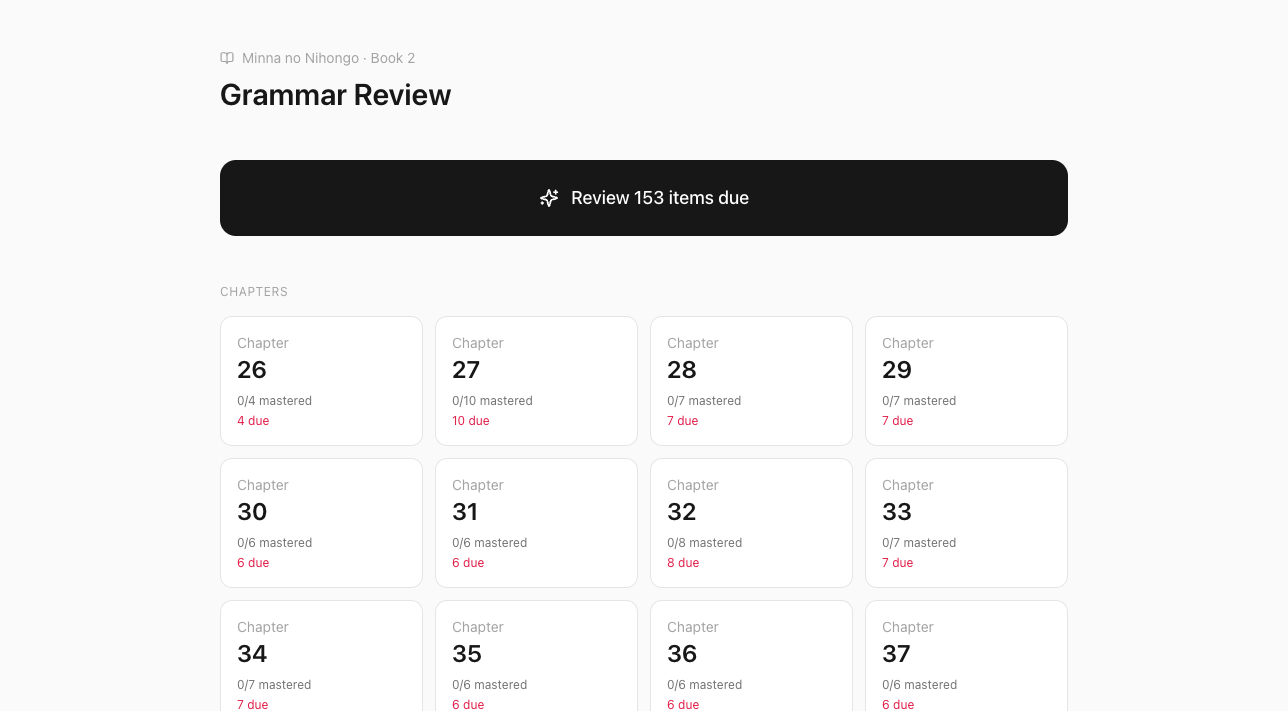
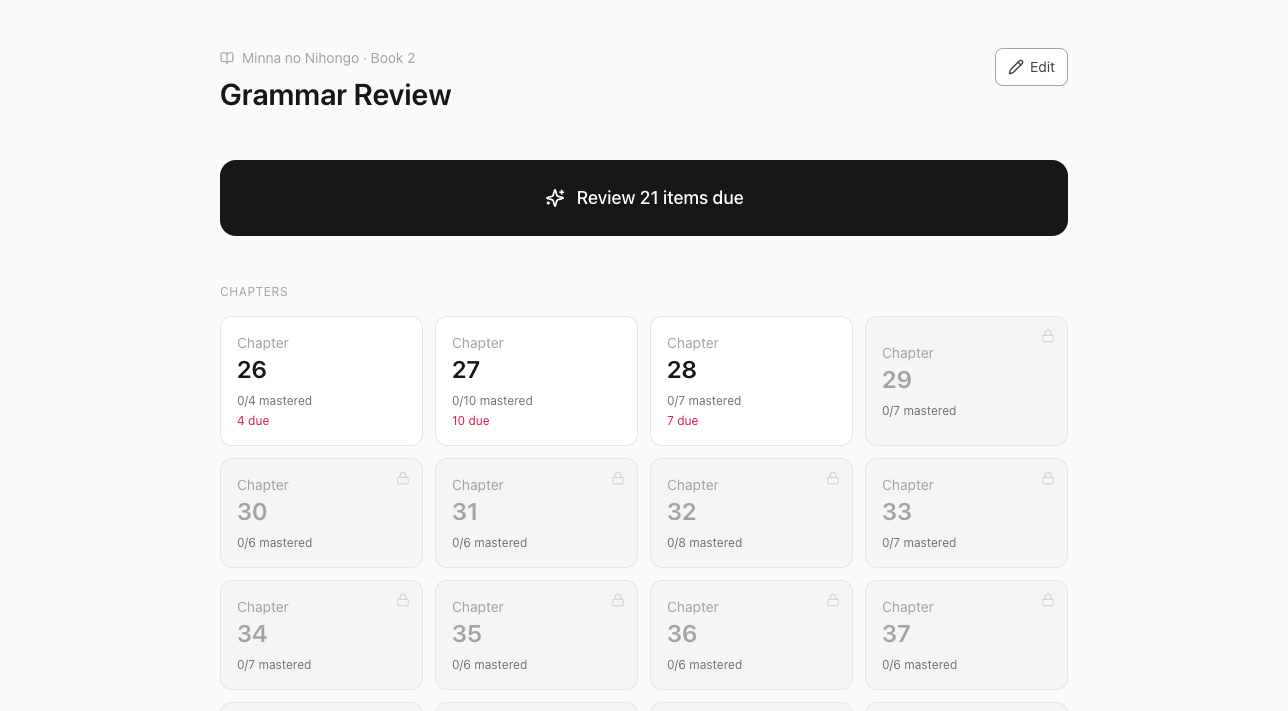
Add chapter activation: review only what you've studied
- New active-chapters store keyed in localStorage. Only items in active
  chapters appear in the due queue and contribute to the dashboard CTA.
- Dashboard gets an Edit toggle: cards become checkboxes, banner shows
  Select all / Clear / N of 25 active. Inactive chapters render dimmed
  with a lock icon and don't accept clicks outside edit mode.
- First-time users (no active chapters) auto-enter edit mode and see a
  dashed "Select chapters you've studied" CTA instead of Review.
- README updated with the new edit-mode screenshot.

diff --git a/src/components/Dashboard.tsx b/src/components/Dashboard.tsx
@@ -1,4 +1,5 @@
-import { BookOpen, Sparkles } from "lucide-react";
+import { useState } from "react";
+import { BookOpen, Check, Lock, Pencil, Sparkles } from "lucide-react";
 import { grammarData } from "../data/grammarData";
 import { useSrs } from "../srs/useSrs";
 
@@ -10,27 +11,91 @@ interface Props {
 const ALL_CHAPTERS = Array.from({ length: 25 }, (_, i) => 26 + i);
 
 export function Dashboard({ onStartReview, onOpenChapter }: Props) {
-  const { dueItems, chapterStats } = useSrs();
+  const {
+    dueItems,
+    chapterStats,
+    activeChapters,
+    isChapterActive,
+    toggleChapterActive,
+    setAllChaptersActive,
+  } = useSrs();
+  const [editing, setEditing] = useState(activeChapters.size === 0);
   const due = dueItems().length;
+  const activeCount = activeChapters.size;
+
+  const handleCardClick = (ch: number, empty: boolean) => {
+    if (empty) return;
+    if (editing) toggleChapterActive(ch);
+    else if (isChapterActive(ch)) onOpenChapter(ch);
+  };
 
   return (
     <div className="max-w-4xl mx-auto px-6 py-12">
-      <header className="mb-12">
-        <div className="flex items-center gap-2 text-neutral-400 text-sm mb-2">
-          <BookOpen size={14} />
-          <span>Minna no Nihongo · Book 2</span>
+      <header className="mb-12 flex items-start justify-between gap-4">
+        <div>
+          <div className="flex items-center gap-2 text-neutral-400 text-sm mb-2">
+            <BookOpen size={14} />
+            <span>Minna no Nihongo · Book 2</span>
+          </div>
+          <h1 className="text-3xl font-semibold text-neutral-900">Grammar Review</h1>
         </div>
-        <h1 className="text-3xl font-semibold text-neutral-900">Grammar Review</h1>
+        <button
+          onClick={() => setEditing((v) => !v)}
+          className={`flex items-center gap-1.5 text-sm px-3 py-2 rounded-lg border transition-colors ${
+            editing
+              ? "bg-neutral-900 text-white border-neutral-900"
+              : "bg-white text-neutral-700 border-neutral-200 hover:border-neutral-400"
+          }`}
+        >
+          {editing ? <Check size={16} /> : <Pencil size={16} />}
+          {editing ? "Done" : "Edit"}
+        </button>
       </header>
 
-      <button
-        onClick={onStartReview}
-        disabled={due === 0}
-        className="w-full mb-12 py-6 rounded-2xl bg-neutral-900 text-white text-lg font-medium hover:bg-neutral-800 transition-colors disabled:bg-neutral-200 disabled:text-neutral-400 disabled:cursor-not-allowed flex items-center justify-center gap-3"
-      >
-        <Sparkles size={20} />
-        {due > 0 ? `Review ${due} item${due > 1 ? "s" : ""} due` : "Nothing due — come back later"}
-      </button>
+      {editing ? (
+        <div className="mb-12 p-5 rounded-2xl border border-neutral-200 bg-white">
+          <div className="text-sm text-neutral-700 mb-3">
+            Tap chapters you've already studied. Only active chapters count toward
+            reviews.
+          </div>
+          <div className="flex gap-3 text-sm">
+            <button
+              onClick={() => setAllChaptersActive(ALL_CHAPTERS)}
+              className="text-neutral-700 underline-offset-4 hover:underline"
+            >
+              Select all
+            </button>
+            <span className="text-neutral-300">·</span>
+            <button
+              onClick={() => setAllChaptersActive([])}
+              className="text-neutral-700 underline-offset-4 hover:underline"
+            >
+              Clear
+            </button>
+            <span className="ml-auto text-neutral-400">
+              {activeCount} of {ALL_CHAPTERS.length} active
+            </span>
+          </div>
+        </div>
+      ) : activeCount === 0 ? (
+        <button
+          onClick={() => setEditing(true)}
+          className="w-full mb-12 py-6 rounded-2xl border-2 border-dashed border-neutral-300 text-neutral-600 hover:border-neutral-500 hover:text-neutral-900 transition-colors"
+        >
+          Select chapters you've studied to start reviewing
+        </button>
+      ) : (
+        <button
+          onClick={onStartReview}
+          disabled={due === 0}
+          className="w-full mb-12 py-6 rounded-2xl bg-neutral-900 text-white text-lg font-medium hover:bg-neutral-800 transition-colors disabled:bg-neutral-200 disabled:text-neutral-400 disabled:cursor-not-allowed flex items-center justify-center gap-3"
+        >
+          <Sparkles size={20} />
+          {due > 0
+            ? `Review ${due} item${due > 1 ? "s" : ""} due`
+            : "Nothing due — come back later"}
+        </button>
+      )}
 
       <div className="mb-4 text-xs uppercase tracking-wider text-neutral-400">
         Chapters
@@ -39,23 +104,67 @@ export function Dashboard({ onStartReview, onOpenChapter }: Props) {
         {ALL_CHAPTERS.map((ch) => {
           const stats = chapterStats(ch);
           const empty = stats.total === 0;
+          const active = isChapterActive(ch);
+          const showAsLocked = !editing && !active;
+
           return (
             <button
               key={ch}
-              onClick={() => !empty && onOpenChapter(ch)}
-              disabled={empty}
-              className="text-left p-4 rounded-xl border border-neutral-200 bg-white hover:border-neutral-400 transition-colors disabled:opacity-40 disabled:hover:border-neutral-200 disabled:cursor-not-allowed"
+              onClick={() => handleCardClick(ch, empty)}
+              disabled={empty || (!editing && !active)}
+              className={`relative text-left p-4 rounded-xl border transition-colors ${
+                empty
+                  ? "bg-white border-neutral-200 opacity-40 cursor-not-allowed"
+                  : editing
+                  ? active
+                    ? "bg-neutral-900 border-neutral-900 text-white"
+                    : "bg-white border-neutral-200 hover:border-neutral-400"
+                  : showAsLocked
+                  ? "bg-neutral-100 border-neutral-200 text-neutral-400 cursor-not-allowed"
+                  : "bg-white border-neutral-200 hover:border-neutral-400"
+              }`}
             >
-              <div className="text-sm text-neutral-400">Chapter</div>
-              <div className="text-2xl font-semibold text-neutral-900 mb-2">{ch}</div>
+              {editing && !empty && (
+                <div
+                  className={`absolute top-3 right-3 w-5 h-5 rounded-md border-2 flex items-center justify-center ${
+                    active ? "bg-white border-white" : "border-neutral-300"
+                  }`}
+                >
+                  {active && <Check size={12} className="text-neutral-900" />}
+                </div>
+              )}
+              {showAsLocked && !empty && (
+                <Lock
+                  size={14}
+                  className="absolute top-3 right-3 text-neutral-300"
+                />
+              )}
+              <div
+                className={`text-sm ${
+                  editing && active ? "text-neutral-300" : "text-neutral-400"
+                }`}
+              >
+                Chapter
+              </div>
+              <div
+                className={`text-2xl font-semibold mb-2 ${
+                  editing && active ? "text-white" : ""
+                }`}
+              >
+                {ch}
+              </div>
               {empty ? (
                 <div className="text-xs text-neutral-400">No items yet</div>
               ) : (
                 <>
-                  <div className="text-xs text-neutral-500">
+                  <div
+                    className={`text-xs ${
+                      editing && active ? "text-neutral-300" : "text-neutral-500"
+                    }`}
+                  >
                     {stats.mastered}/{stats.total} mastered
                   </div>
-                  {stats.due > 0 && (
+                  {!editing && active && stats.due > 0 && (
                     <div className="text-xs text-rose-600 mt-1">{stats.due} due</div>
                   )}
                 </>
@@ -66,8 +175,8 @@ export function Dashboard({ onStartReview, onOpenChapter }: Props) {
       </div>
 
       <div className="mt-10 text-xs text-neutral-400">
-        {grammarData.length} sample item{grammarData.length > 1 ? "s" : ""} loaded · progress
-        saved locally
+        {grammarData.length} item{grammarData.length > 1 ? "s" : ""} loaded ·{" "}
+        {activeCount}/{ALL_CHAPTERS.length} chapters active · progress saved locally
       </div>
     </div>
   );

diff --git a/src/srs/useSrs.ts b/src/srs/useSrs.ts
@@ -2,7 +2,11 @@ import { useCallback, useEffect, useState } from "react";
 import { grammarData } from "../data/grammarData";
 import type { GrammarItem } from "../data/grammarData";
 import { gradeProgress, initialProgress, isDue, isMastered } from "./algorithm";
-import { localProgressStore } from "./storage";
+import {
+  localProgressStore,
+  readActiveChapters,
+  writeActiveChapters,
+} from "./storage";
 import type { Grade, Progress } from "./types";
 
 export interface ItemWithProgress {
@@ -14,11 +18,17 @@ export function useSrs() {
   const [progressMap, setProgressMap] = useState<Record<string, Progress>>(() =>
     localProgressStore.all()
   );
+  const [activeChapters, setActiveChapters] = useState<Set<number>>(
+    () => new Set(readActiveChapters())
+  );
 
   useEffect(() => {
     const handler = (e: StorageEvent) => {
-      if (e.key && e.key.startsWith("minna-srs:")) {
+      if (e.key && e.key.startsWith("minna-srs:progress")) {
         setProgressMap(localProgressStore.all());
+      }
+      if (e.key && e.key.startsWith("minna-srs:active-chapters")) {
+        setActiveChapters(new Set(readActiveChapters()));
       }
     };
     window.addEventListener("storage", handler);
@@ -46,12 +56,13 @@ export function useSrs() {
   const dueItems = useCallback((): ItemWithProgress[] => {
     const now = new Date();
     return grammarData
+      .filter((item) => activeChapters.has(item.chapter))
       .map((item) => ({
         item,
         progress: progressMap[item.id] ?? initialProgress(item.id, now),
       }))
       .filter(({ progress }) => isDue(progress, now));
-  }, [progressMap]);
+  }, [progressMap, activeChapters]);
 
   const chapterStats = useCallback(
     (chapter: number) => {
@@ -65,5 +76,36 @@ export function useSrs() {
     [progressMap]
   );
 
-  return { progressMap, getProgress, grade, dueItems, chapterStats };
+  const isChapterActive = useCallback(
+    (chapter: number) => activeChapters.has(chapter),
+    [activeChapters]
+  );
+
+  const toggleChapterActive = useCallback((chapter: number) => {
+    setActiveChapters((prev) => {
+      const next = new Set(prev);
+      if (next.has(chapter)) next.delete(chapter);
+      else next.add(chapter);
+      writeActiveChapters([...next]);
+      return next;
+    });
+  }, []);
+
+  const setAllChaptersActive = useCallback((chapters: number[]) => {
+    const next = new Set(chapters);
+    writeActiveChapters([...next]);
+    setActiveChapters(next);
+  }, []);
+
+  return {
+    progressMap,
+    getProgress,
+    grade,
+    dueItems,
+    chapterStats,
+    activeChapters,
+    isChapterActive,
+    toggleChapterActive,
+    setAllChaptersActive,
+  };
 }

diff --git a/src/srs/storage.ts b/src/srs/storage.ts
@@ -1,6 +1,7 @@
 import type { Progress, ProgressStore } from "./types";
 
 const STORAGE_KEY = "minna-srs:progress:v1";
+const ACTIVE_CHAPTERS_KEY = "minna-srs:active-chapters:v1";
 
 function readAll(): Record<string, Progress> {
   try {
@@ -28,3 +29,16 @@ export const localProgressStore: ProgressStore = {
     return readAll();
   },
 };
+
+export function readActiveChapters(): number[] {
+  try {
+    const raw = localStorage.getItem(ACTIVE_CHAPTERS_KEY);
+    return raw ? (JSON.parse(raw) as number[]) : [];
+  } catch {
+    return [];
+  }
+}
+
+export function writeActiveChapters(chapters: number[]): void {
+  localStorage.setItem(ACTIVE_CHAPTERS_KEY, JSON.stringify(chapters));
+}

diff --git a/README.md b/README.md
@@ -15,9 +15,14 @@ This app trades feature breadth for a clean review loop and a 3-button "vibe che
 ## Screenshots
 
 ### Dashboard
-Chapter grid with per-chapter mastered counts and a single "Review Due" CTA.
+Chapter grid with per-chapter mastered counts and a single "Review Due" CTA. Inactive chapters are locked so you only review what you've actually studied.
 
 ![Dashboard](docs/screenshots/dashboard.png)
+
+### Selecting which chapters you've studied
+Tap **Edit** to toggle chapters on or off. Only active chapters count toward reviews.
+
+![Edit chapter selection](docs/screenshots/dashboard-edit.png)
 
 ### Review card — front
 Large Japanese typography, optional TTS, single "Show Answer" action.
